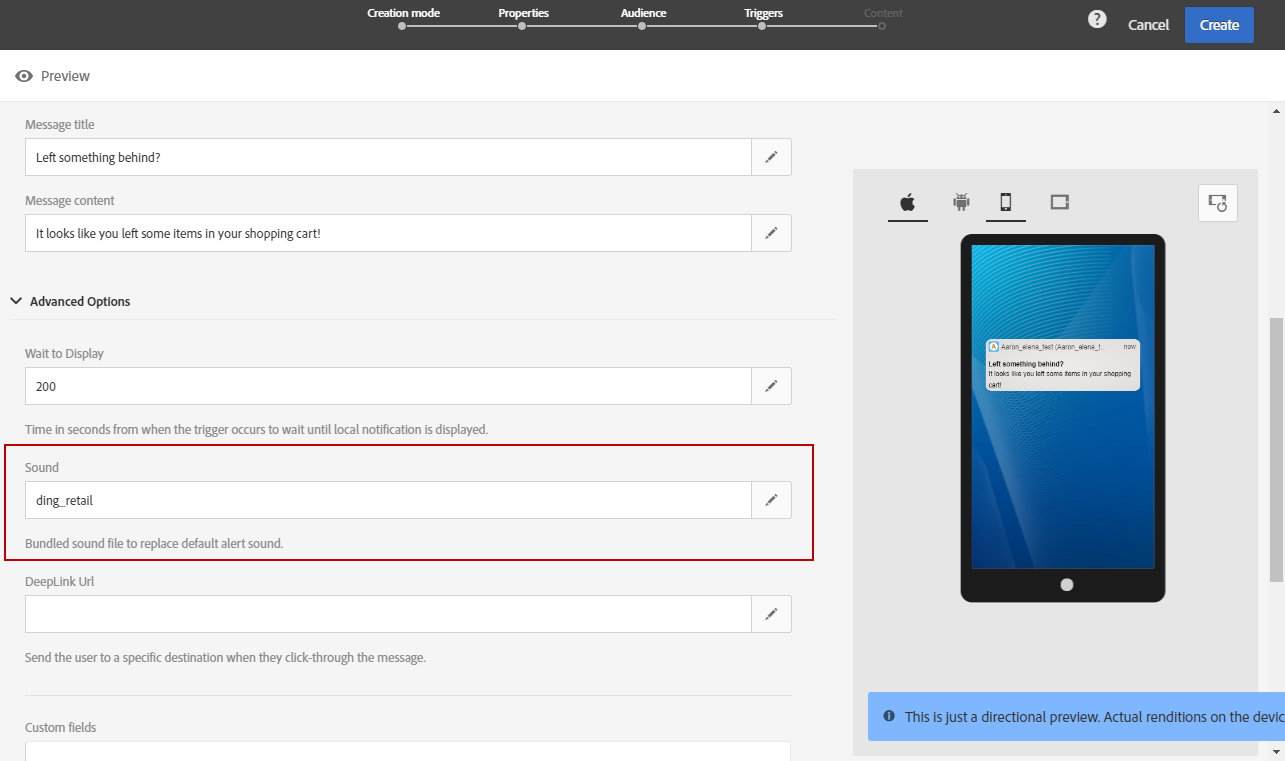
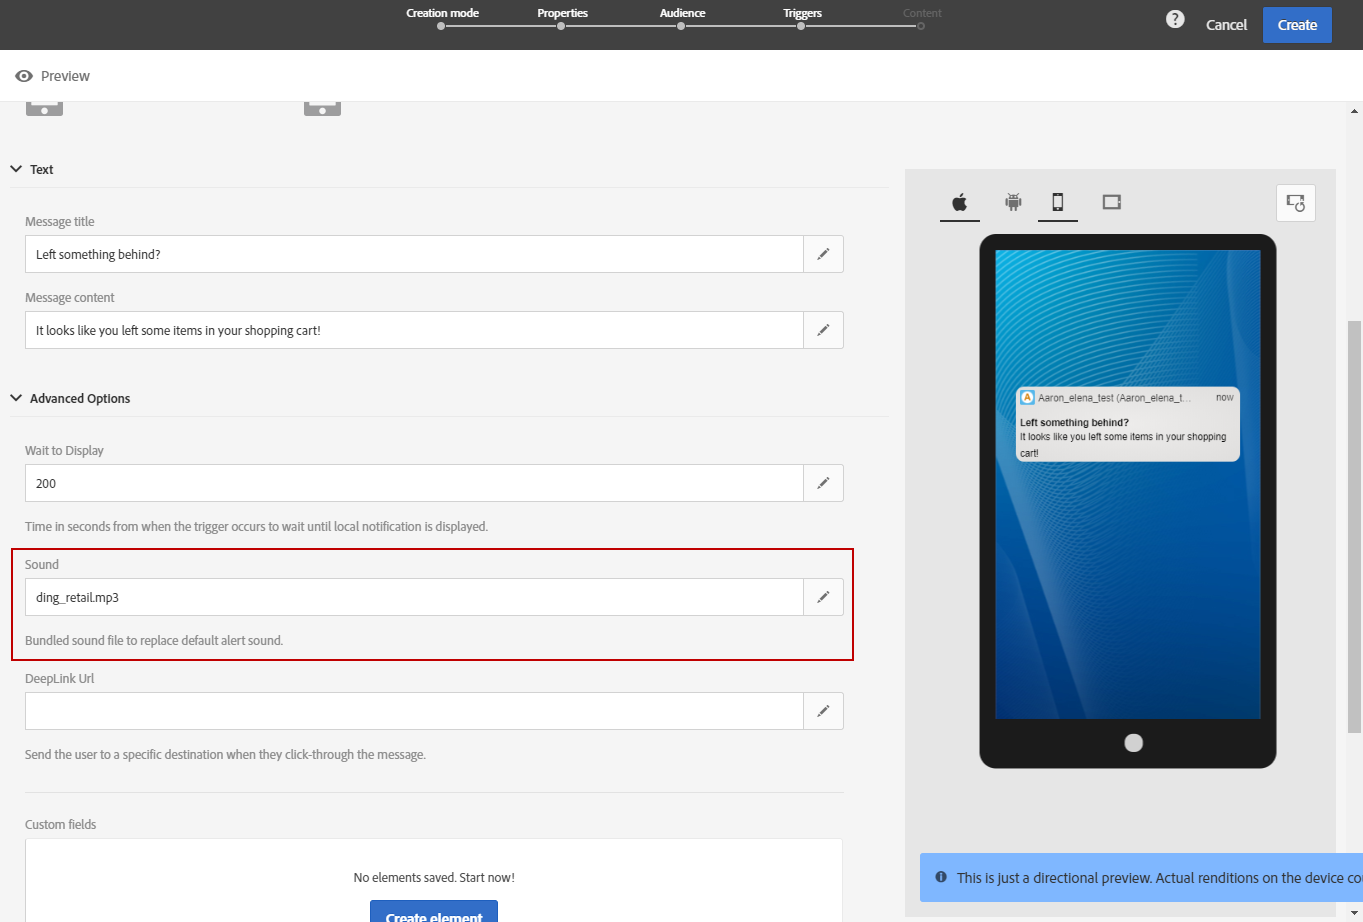
Update in-app section

diff --git a/help/channels/using/customizing-an-in-app-message.md b/help/channels/using/customizing-an-in-app-message.md
@@ -148,7 +148,7 @@ To customize a local notification:
    ![](assets/inapp_customize_18.png)
 
 1. Under the **[!UICONTROL Advanced option]** category, in the **[!UICONTROL Wait to display]** field, choose how long in seconds your local notification will be displayed on screen once your event is triggered.
-1. In the **[!UICONTROL Sound]** field, enter the filename of the sound file, without the extension, to be played by the mobile device when the local notification is received.
+1. In the **[!UICONTROL Sound]** field, enter the filename of the sound file, with the extension, to be played by the mobile device when the local notification is received.
 
    The sound file plays when delivering the notification if the file is defined in the mobile application's package. Otherwise, the device's default sound is played.
 
